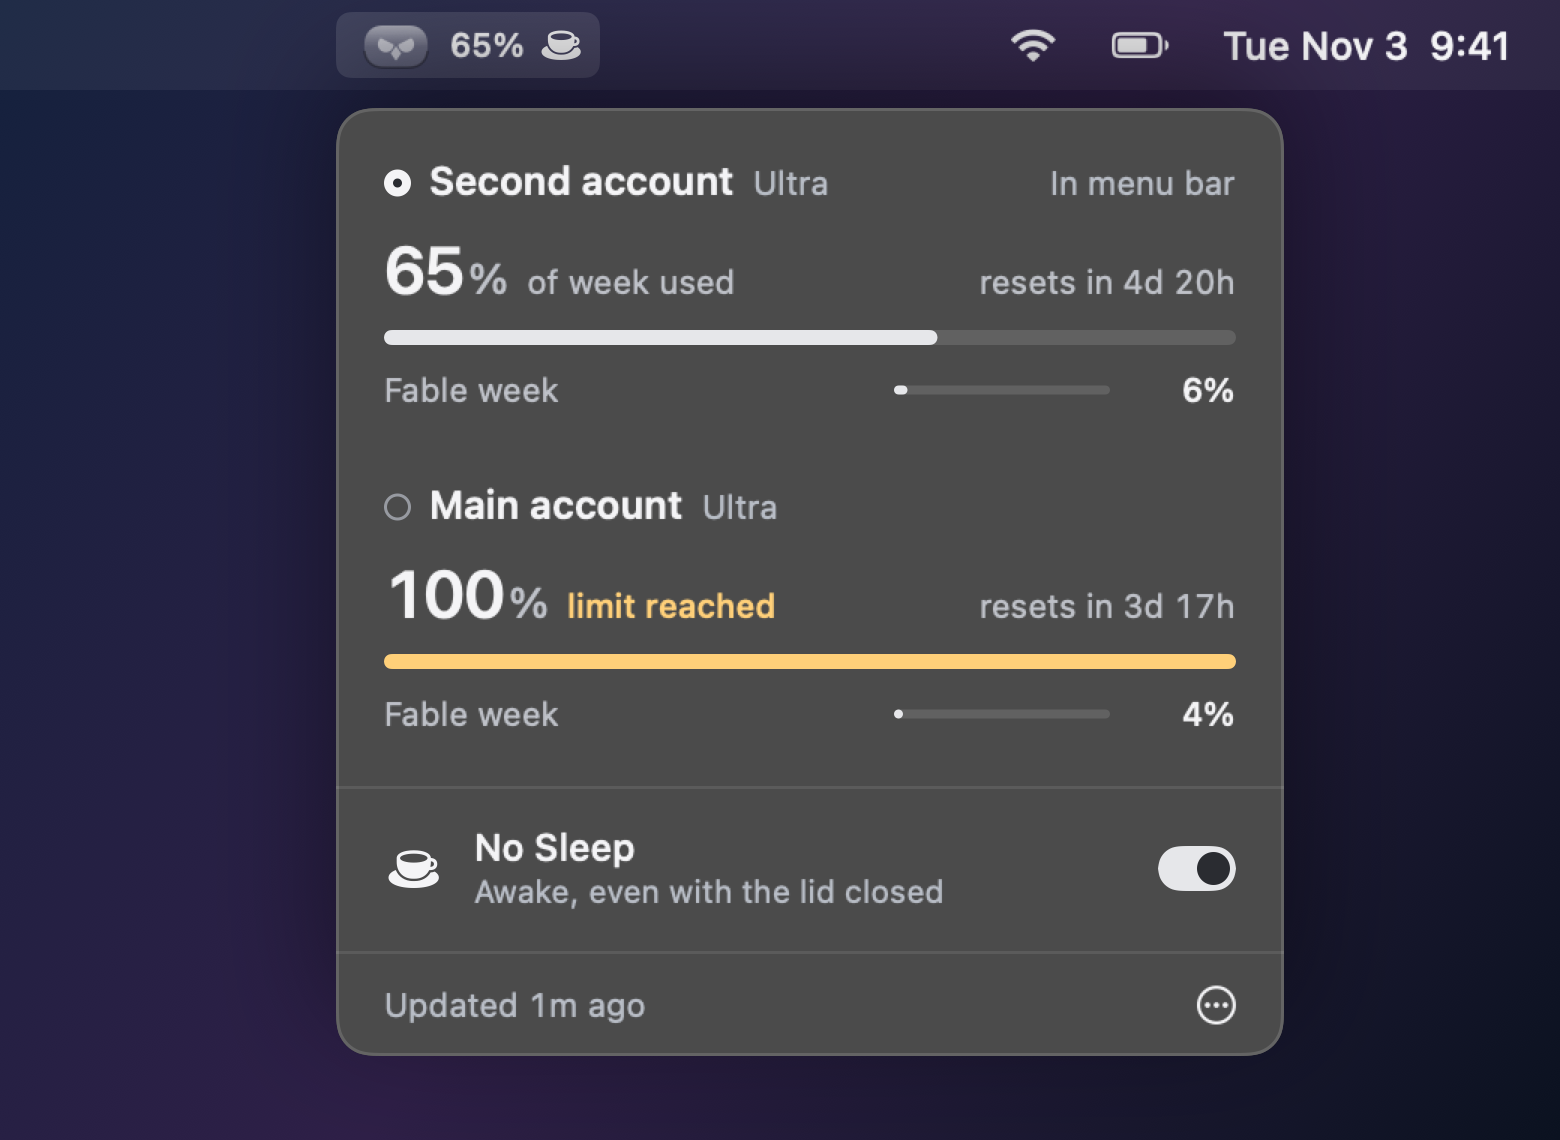
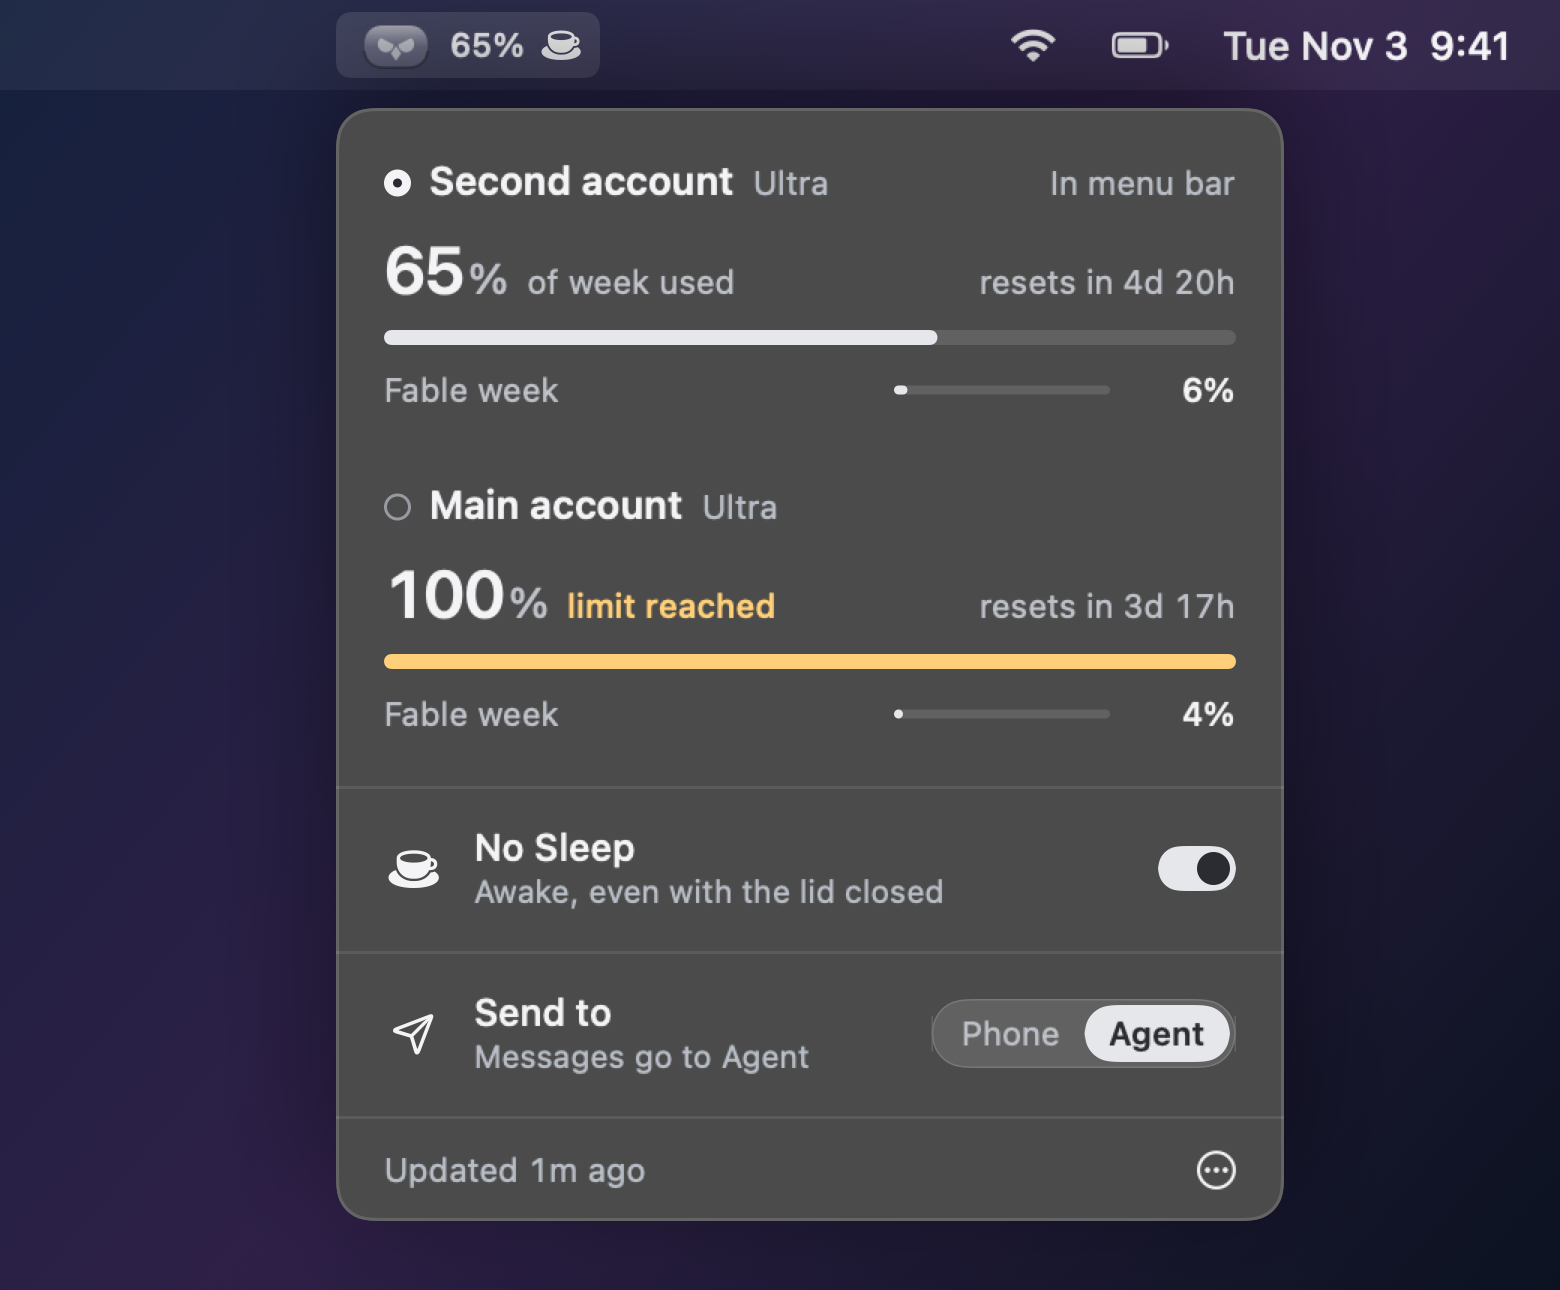
Perch 2.3: README, changelog and hero for Send to
README explains targets.json, the command line and the notifications,
and adds Send to to the privacy table. Hero stills show the new row.
Version 2.3, build 8.

diff --git a/README.md b/README.md
@@ -17,7 +17,7 @@ use, and when each one resets.
 <p align="center">
   <picture>
     <source media="(prefers-color-scheme: dark)" srcset=".github/hero-dark.png" />
-    <img src=".github/hero-light.png" width="520" alt="The Perch popover under its menu bar owl: two Claude accounts, each with its plan beside the name, the week's percent used, when it resets, and the Fable week underneath, then the No Sleep switch turned on, with a cup beside the number in the menu bar" />
+    <img src=".github/hero-light.png" width="520" alt="The Perch popover under its menu bar owl: two Claude accounts, each with its plan beside the name, the week's percent used, when it resets, and the Fable week underneath, then the No Sleep switch turned on and the Send to switch set to Agent, with a cup beside the number in the menu bar" />
   </picture>
 </p>
 
@@ -34,6 +34,8 @@ needs one command before macOS will open it:
 ```sh
 xattr -dr com.apple.quarantine /Applications/Perch.app
 ```
+
+The 2.2 download does not have [Send to](#send-to) yet. Build from source (below) to get it.
 
 Requires macOS 14 (Sonoma) or later. The build is universal, Apple silicon and Intel.
 
@@ -107,6 +109,52 @@ add this with `sudo visudo -f /etc/sudoers.d/perch`:
 
 Turn it off before the Mac goes in a bag. With the lid shut it keeps running, and it warms up.
 
+## Send to
+
+I dictate short messages all day from one key, some to an assistant that texts me and some to an
+agent running on this Mac. The Send to switch picks where that key's messages go, so I flip it in
+the panel instead of keeping two keys in my head.
+
+Perch has no hotkey or text box of its own. It runs a command you pick. List your targets in
+`~/Library/Application Support/Perch/targets.json`:
+
+```json
+{
+  "targets": [
+    { "name": "Phone", "command": ["~/bin/text-my-phone"] },
+    { "name": "Agent", "command": ["/usr/local/bin/agent", "send"] }
+  ]
+}
+```
+
+Each command gets the message on stdin and runs directly, never through a shell. Exit 0 means it
+went. Any other exit means it did not: the last line the command wrote to stderr becomes the
+reason, and the message is saved in an `unsent` folder next to `targets.json`, so nothing you said
+is lost.
+
+Then point your hotkey tool (Hammerspoon, Raycast, Keyboard Maestro, a Shortcut) at the app's own
+binary:
+
+```sh
+PERCH=/Applications/Perch.app/Contents/MacOS/Perch
+echo "on my way" | $PERCH send            # to whatever the switch shows
+$PERCH send --to Agent "run the tests"    # one message to a named target
+$PERCH target                             # print the chosen target
+$PERCH target Phone                       # choose one, same as clicking the switch
+$PERCH targets                            # list them, the chosen one marked
+```
+
+After each send the menu bar says "Sent to Agent" next to a tick for a moment, or "Not sent to
+Agent" next to a warning triangle for longer, and the panel row keeps the reason. `send` exits 0
+when the message went, 1 when it did not, and 2 for a setup problem (no file, an unknown target,
+an empty message).
+
+A tool with its own text box can label it with where the text will go. Perch posts the
+distributed notification `com.abhaymettu.perch.messageTargetChanged`, with the new name under
+`target`, whenever the choice changes, and `com.abhaymettu.perch.messageSent` after every send.
+Messages come in on the command line rather than through a URL scheme, so a link on a web page
+cannot send anything. Until `targets.json` exists the row stays hidden.
+
 ## The owl
 
 <p align="center">
@@ -170,6 +218,7 @@ pointing at it.
 | Your default model name | `~/.claude/settings.json` | Nowhere |
 | Widget copy | Written to Scriptable's iCloud folder, if it exists | Your iCloud Drive |
 | No Sleep | Read from the power manager (`SleepDisabled` on `IOPMrootDomain`), changed with `/usr/bin/pmset` | Nowhere |
+| Send to | Your `targets.json`; a message is handed to the chosen target's command on stdin | Wherever that command sends it. Perch opens no connection for it |
 
 The usage request is the only network call Perch makes. It runs whether you watch one account
 or several.
@@ -214,11 +263,12 @@ xcodebuild -scheme Perch -configuration Release -derivedDataPath build build
 open build/Build/Products/Release/Perch.app
 ```
 
-Or open `Perch.xcodeproj` in Xcode 16 or later and run. `Scripts/release.sh 2.2` builds the zip
+Or open `Perch.xcodeproj` in Xcode 16 or later and run. `Scripts/release.sh 2.3` builds the zip
 and DMG for a release. Design work happens in a preview harness rather than the live popover:
 `./shot.sh out.png main` renders every state side by side to a PNG (add `PERCH_APPEARANCE=light`
 for light), and `PERCH_UI_PREVIEW=hero` renders the staged pictures in this README. See
-`Perch/Design/PreviewHarness.swift`.
+`Perch/Design/PreviewHarness.swift`. `Scripts/test-targets.sh` runs the Send to command line end to
+end against stand-in commands.
 
 Perch 1.3, the single-account build with the full panel (Claude sessions, dev servers,
 LaunchAgents, cron, simulators), is still on the [v1.3 tag](https://github.com/abhaymettu/perch/tree/v1.3).

diff --git a/AGENTS.md b/AGENTS.md
@@ -15,8 +15,15 @@ build with the full panel (sessions, servers, agents, cron, simulators) lives at
 - `Perch/Services/NoSleep.swift`: the No Sleep switch. Reads `SleepDisabled` from the IOKit
   registry on the 1 s timer (no subprocess), sets it with `sudo -n pmset -a disablesleep`, then
   the administrator prompt, and reads it back after every change. Never cache the state.
+- `Perch/Services/MessageTargets.swift`: Send to. Targets come from
+  `~/Library/Application Support/Perch/targets.json` (or `PERCH_TARGETS_FILE`), the choice from the
+  `messageTarget` default. `deliver` runs a target's command with the text on stdin, never through
+  a shell, and keeps unsent text. Distributed notifications carry choice changes and send results.
+- `Perch/App/PerchCommand.swift`: `Perch send | target | targets`, run from `PerchMain` before
+  AppKit starts. No URL scheme on purpose: a web page must not be able to send.
 - `Perch/Views`: `UsagePopup` (the panel), `AccountCards` (several accounts), `UsageStrip` (one
-  account), `NoSleepRow` (the switch row).
+  account), `NoSleepRow` (the switch row), `SendToRow` (the target switch, hidden without a
+  targets file).
 - `Perch/Views/Owl`: the menu bar owl. `OwlPose` (the pose and the stance each app state rests in),
   `OwlSpring` (one closed-form spring per pose channel), `OwlAction` (an action is a score of cues;
   `OwlPerformer` plays them), `OwlRepertoire` (every action, and the catalogue of scenes),
@@ -34,13 +41,14 @@ xcodebuild -scheme Perch -configuration Debug build
 PERCH_APPEARANCE=light ./shot.sh /tmp/light.png main
 Scripts/owl-clips.sh /tmp/owl                         # every owl action as an mp4 and a contact sheet
 Scripts/bench.py 120                                  # CPU, memory, wakeups of a Release build
+Scripts/test-targets.sh                               # Send to command line against stand-in commands
 ```
 
 `PERCH_OWL_DEMO=1` plays the whole owl catalogue in the real menu bar, and `PERCH_OWL_TRACE=<file>`
 logs, per stretch of motion, which display link drove it, the frame rate, missing frames, how late
 the main thread got to a frame, and draw times.
 
-Debug builds run `selfCheck()` assertions at launch (`LimitsMonitor`, `MenuBarIcon`, `Shell`, `NoSleep`). A
+Debug builds run `selfCheck()` assertions at launch (`LimitsMonitor`, `MenuBarIcon`, `Shell`, `NoSleep`, `MessageTargets`). A
 failed assertion crashes the harness before it writes a PNG, which is the test failure. Run a
 Debug build after touching any of those files.
 

diff --git a/CHANGELOG.md b/CHANGELOG.md
@@ -1,5 +1,17 @@
 # Changelog
 
+## 2.3 (2026-11-23)
+
+- Send to: a switch in the panel picks which message target a send key reaches. Targets are your
+  own commands, listed in `~/Library/Application Support/Perch/targets.json`; each gets the
+  message on stdin.
+- `Perch send`, `Perch target` and `Perch targets` on the app's binary, for Hammerspoon, Raycast
+  or any hotkey tool. `send` exits 0 sent, 1 not sent, 2 for a setup problem.
+- The menu bar says "Sent to" or "Not sent to" after each send, with a tick or a warning triangle,
+  and a message that did not go is kept in an `unsent` folder.
+- Distributed notifications when the choice changes and after each send, so a hotkey tool can
+  label its text box.
+
 ## 2.2 (2026-11-17)
 
 - No Sleep: a switch in the panel keeps the Mac awake with the lid closed. It is the setting
